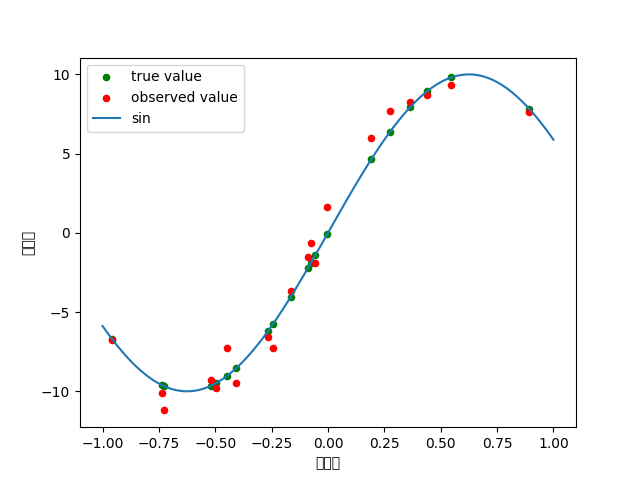
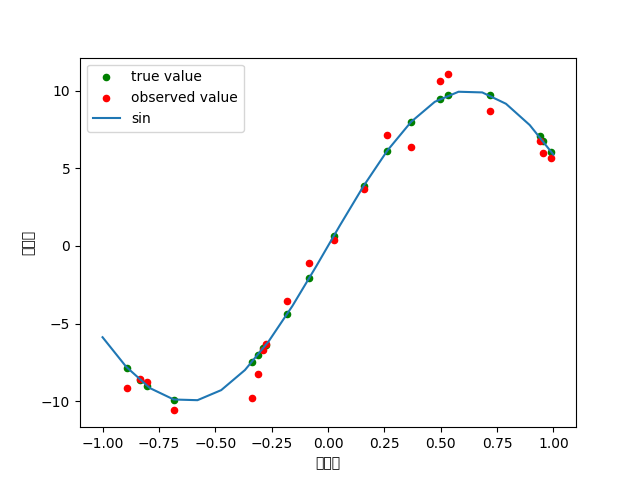
ensyu1.6ok

diff --git a/演習.py b/演習.py
@@ -9,41 +9,46 @@ def true_function(x):
     y=math.sin(math.pi * x * 0.8) * 10
     return y
 
-elements_size=100
+def makeArray(array,elements_size): #第一変数にxとなる配列、第二変数に配列サイズとなる変数
+    k=0
+    Yarray=np.ndarray(elements_size)
+    for i in array:
+        y=true_function(i)
+        Yarray[k]=y#20この真値
+        k=k+1
+    return Yarray
 
-Yarray=np.ndarray(elements_size)
-#xarray=np.random.rand(elements_size)
-#xarray=np.zeros(elements_size)
+def makeNoize(array): #配列を受け取って、ノイズをかけた配列をわたす
+    noize=(np.random.normal(loc=0.0, scale=2.0, size=20))/2
+    NoizeArray=array+noize
+    return NoizeArray
+
+def save_dataframe(df): #fileに保存する
+    df.to_csv("dataset1.tsv",sep='\t', index=False) #dataframeをtsv形式で保存
+
+def Read_files(): #fileを読んで出力する
+    df1 = pd.read_csv("dataset1.tsv",sep="\t")
+    return df1
+
+def data_plot(df,xarray,yarray):
+    ax=df.plot.scatter(x="観測点",y="真値点",label="true value",c="g")
+    df.plot.scatter(x="観測点",y="観測値",c="r",ax=ax, label="observed value")
+    
+    plt.plot(xarray,Yarray,label="sin")
+    plt.legend()
+    #plt.savefig("ex1-3.png")
+    plt.show()
+
+
+
+elements_size=20
 xarray=np.linspace(-1,1,elements_size)
-xarray2=np.random.uniform(-1.0,1.0,20)
-
-k=0
-for i in xarray:
-    y=true_function(i)
-    Yarray[k]=y#20この真値
-    k=k+1
-
-k=0
-Yarray2=np.ndarray(20)
-
-for i in xarray2:
-    y=true_function(i)
-    Yarray2[k]=y#20この真値
-    k=k+1
-#Yarray2にノイズをかける
-noize=(np.random.normal(loc=0.0, scale=2.0, size=20))/2
-Yarray3=Yarray2+noize
-
-
-array1_2=np.column_stack([xarray2,Yarray2,Yarray3])
-print(array1_2)
-df=pd.DataFrame(array1_2,columns=["観測点","真値点","観測値"])
-print(df)
-ax=df.plot.scatter(x="観測点",y="真値点",label="true value",c="g")
-df.plot.scatter(x="観測点",y="観測値",c="r",ax=ax, label="observed value")
-
-plt.plot(xarray,Yarray,label="sin")
-plt.legend()
-plt.savefig("ex1-3.png")
-plt.show()
+xarray2=np.random.uniform(-1.0,1.0,elements_size)
+Yarray=makeArray(xarray,elements_size)
+Yarray2=makeArray(xarray2,elements_size)
+Yarray3=makeNoize(Yarray2)
+array1_2=np.column_stack([xarray2,Yarray2,Yarray3])#配列を結合
+df=pd.DataFrame(array1_2,columns=["観測点","真値点","観測値"])#dataframe作成
+data_plot(df,xarray,Yarray)
+    
 
